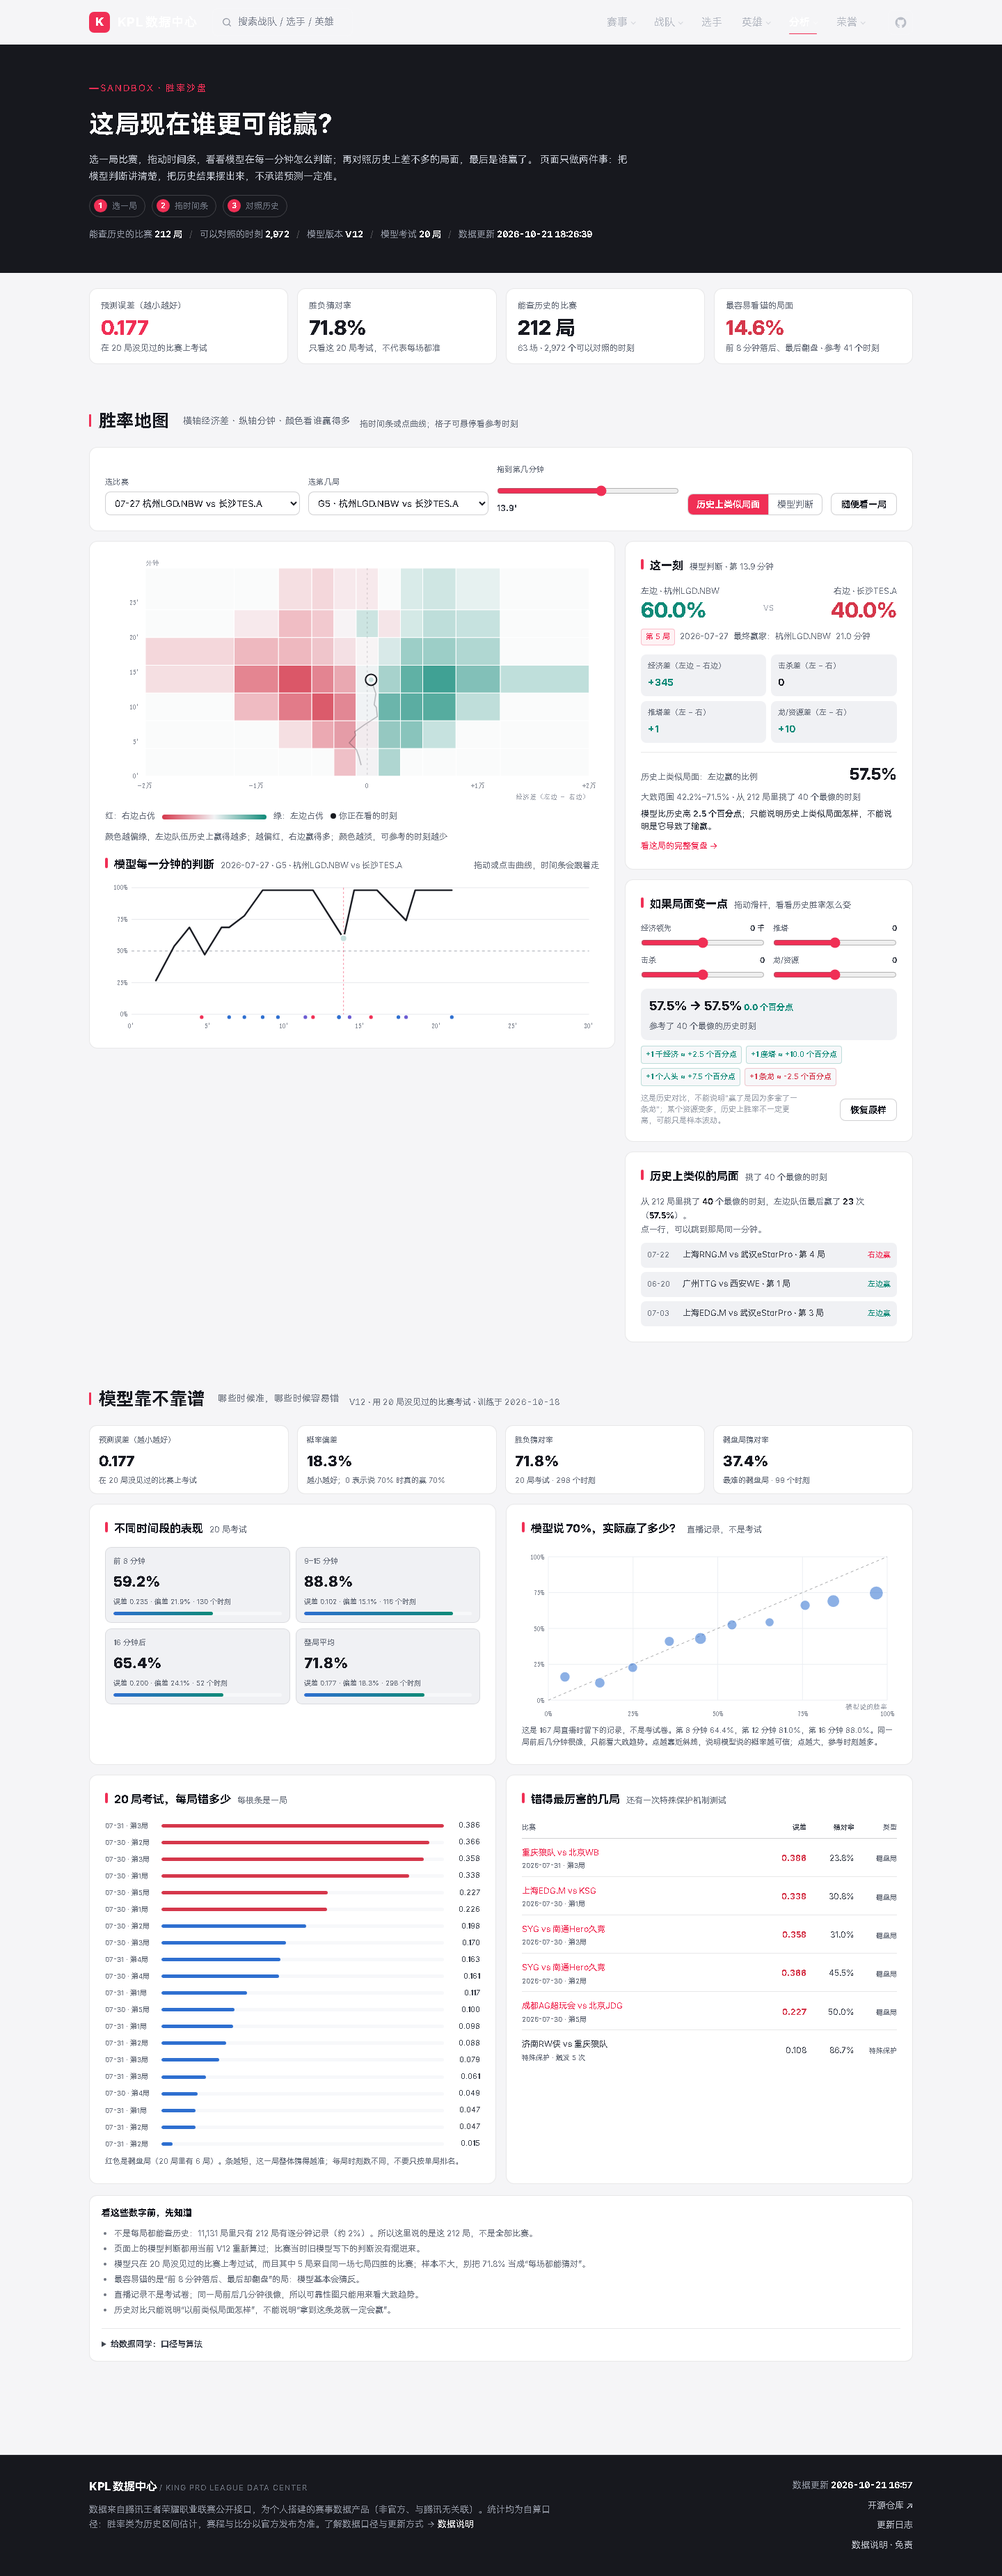
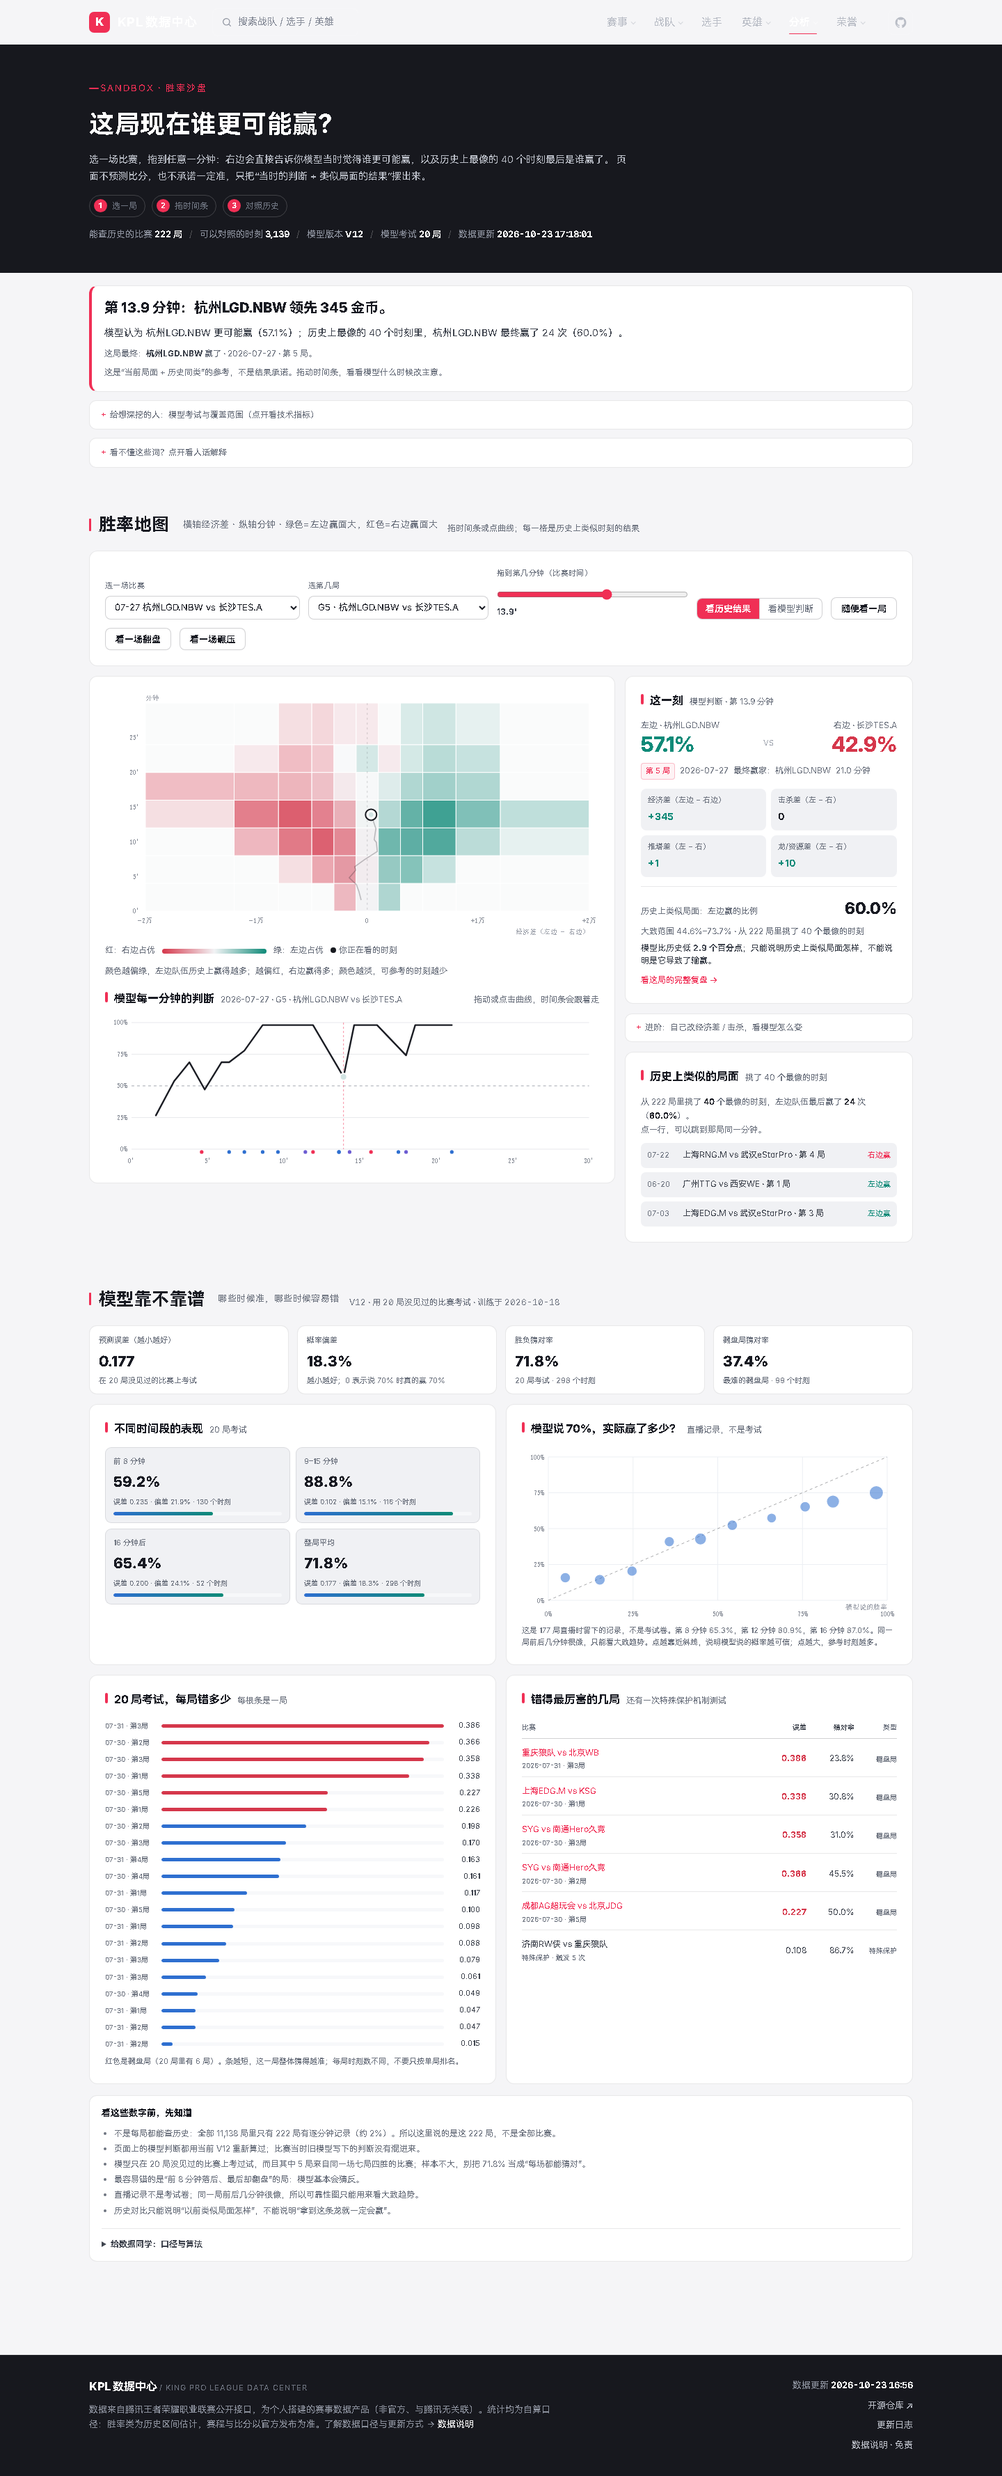
feat(sandbox): 解说模式：一句话结论、折叠技术指标、翻盘/碾压示例

diff --git a/sandbox.html b/sandbox.html
@@ -8,7 +8,7 @@
 <link rel="stylesheet" href="assets/style.css?v=78">
 <link rel="stylesheet" href="assets/pages.css?v=78">
 <link rel="stylesheet" href="assets/v55.css?v=78">
-<link rel="stylesheet" href="assets/sandbox.css?v=2">
+<link rel="stylesheet" href="assets/sandbox.css?v=4">
 <meta property="og:type" content="website">
 <meta property="og:site_name" content="KPL 数据中心">
 <meta property="og:title" content="这局谁更可能赢？· KPL 数据中心">
@@ -23,15 +23,15 @@
   <div class="wrap">
     <div class="ph-kicker mono">SANDBOX · 胜率沙盘</div>
     <h1>这局现在谁更可能赢？</h1>
-    <p>选一局比赛，拖动时间条，看看模型在每一分钟怎么判断；再对照历史上差不多的局面，最后是谁赢了。
-      页面只做两件事：把模型判断讲清楚，把历史结果摆出来，不承诺预测一定准。</p>
+    <p>选一场比赛，拖到任意一分钟：右边会直接告诉你模型当时觉得谁更可能赢，以及历史上最像的 40 个时刻最后是谁赢了。
+      页面不预测比分，也不承诺一定准，只把“当时的判断 + 类似局面的结果”摆出来。</p>
     <div class="sb-howto" aria-label="使用步骤">
       <span><b>1</b> 选一局</span>
       <span><b>2</b> 拖时间条</span>
       <span><b>3</b> 对照历史</span>
     </div>
     <div class="ph-meta mono">
-      <span>能查历史的比赛 <b>212 局</b></span><i>/</i>
+      <span>能查历史的比赛 <b id="sbMetaBattles">—</b></span><i>/</i>
       <span>可以对照的时刻 <b id="sbMetaFrames">—</b></span><i>/</i>
       <span>模型版本 <b>V12</b></span><i>/</i>
       <span>模型考试 <b>20 局</b></span><i>/</i>
@@ -41,44 +41,66 @@
 </header>
 
 <main class="wrap sb-main">
-  <div class="sb-kpis">
-    <div class="sb-kpi hl">
-      <div class="k">预测误差（越小越好）</div>
-      <div class="v" id="sbKpiBrier">—</div>
-      <div class="s" id="sbKpiBrierS">—</div>
-    </div>
-    <div class="sb-kpi">
-      <div class="k">胜负猜对率</div>
-      <div class="v" id="sbKpiAcc">—</div>
-      <div class="s" id="sbKpiAccS">—</div>
-    </div>
-    <div class="sb-kpi">
-      <div class="k">能查历史的比赛</div>
-      <div class="v" id="sbKpiCoverage">—</div>
-      <div class="s" id="sbKpiCoverageS">—</div>
-    </div>
-    <div class="sb-kpi warn">
-      <div class="k">最容易看错的局面</div>
-      <div class="v" id="sbKpiWeak">—</div>
-      <div class="s" id="sbKpiWeakS">—</div>
-    </div>
+  <div class="sb-plain" id="sbPlain">
+    <div class="big">选一场比赛，拖一下时间条，就能看到这一刻的解释。</div>
+    <div class="sub">右边会直接告诉你：模型当时觉得谁更可能赢，以及历史上最像的 40 个时刻最后是谁赢了。</div>
   </div>
+
+  <details class="sb-adv-details">
+    <summary>给想深挖的人：模型考试与覆盖范围（点开看技术指标）</summary>
+    <div class="sb-kpis">
+      <div class="sb-kpi hl">
+        <div class="k">预测误差（越小越好）</div>
+        <div class="v" id="sbKpiBrier">—</div>
+        <div class="s" id="sbKpiBrierS">—</div>
+      </div>
+      <div class="sb-kpi">
+        <div class="k">胜负猜对率</div>
+        <div class="v" id="sbKpiAcc">—</div>
+        <div class="s" id="sbKpiAccS">—</div>
+      </div>
+      <div class="sb-kpi">
+        <div class="k">能查历史的比赛</div>
+        <div class="v" id="sbKpiCoverage">—</div>
+        <div class="s" id="sbKpiCoverageS">—</div>
+      </div>
+      <div class="sb-kpi warn">
+        <div class="k">最容易看错的局面</div>
+        <div class="v" id="sbKpiWeak">—</div>
+        <div class="s" id="sbKpiWeakS">—</div>
+      </div>
+    </div>
+  </details>
+
+  <details class="sb-glossary">
+    <summary>看不懂这些词？点开看人话解释</summary>
+    <div class="sb-glossary-body">
+      <div><b>胜率</b>：模型估计这队最终赢的概率，不是比分预测。</div>
+      <div><b>经济差</b>：左边总金币减右边总金币，正数就是左边领先。</div>
+      <div><b>类似局面</b>：从 222 局历史里找经济差、击杀、推塔、资源最接近的时刻；样本少时会不稳。</div>
+      <div><b>Brier（误差）</b>：越小越好；0.25 相当于瞎猜，0.177 比瞎猜好，但不是神预测。</div>
+      <div><b>翻盘</b>：前 8 分钟落后、最后反而赢了。</div>
+      <div><b>参考区间</b>：历史结果的不确定范围，不是保证。</div>
+    </div>
+  </details>
 
   <section class="block sb-first">
     <div class="block-head">
-      <h2><i></i>胜率地图 <em>横轴经济差 · 纵轴分钟 · 颜色看谁赢得多</em></h2>
-      <span class="block-note mono">拖时间条或点曲线；格子可悬停看参考时刻</span>
+      <h2><i></i>胜率地图 <em>横轴经济差 · 纵轴分钟 · 绿色=左边赢面大，红色=右边赢面大</em></h2>
+      <span class="block-note mono">拖时间条或点曲线；每一格是历史上类似时刻的结果</span>
     </div>
 
     <div class="panel sb-toolbar">
-      <label class="sb-field"><span>选比赛</span><select id="sbMatch"></select></label>
+      <label class="sb-field"><span>选一场比赛</span><select id="sbMatch"></select></label>
       <label class="sb-field"><span>选第几局</span><select id="sbBattle"></select></label>
-      <label class="sb-field sb-time"><span>拖到第几分钟</span><input type="range" id="sbMinute" min="0" max="1" value="0"><b id="sbMinuteLabel">—</b></label>
+      <label class="sb-field sb-time"><span>拖到第几分钟（比赛时间）</span><input type="range" id="sbMinute" min="0" max="1" value="0"><b id="sbMinuteLabel">—</b></label>
       <div class="seg sb-mode" id="sbMode">
-        <button type="button" data-mode="hist" class="on">历史上类似局面</button>
-        <button type="button" data-mode="model">模型判断</button>
+        <button type="button" data-mode="hist" class="on">看历史结果</button>
+        <button type="button" data-mode="model">看模型判断</button>
       </div>
       <button class="btn ghost sm" id="sbRandom" type="button">随便看一局</button>
+      <button class="btn ghost sm" id="sbComeback" type="button">看一场翻盘</button>
+      <button class="btn ghost sm" id="sbBlowout" type="button">看一场碾压</button>
     </div>
 
     <div class="sb-layout">
@@ -97,7 +119,10 @@
 
       <aside class="sb-side">
         <div class="panel sb-state" id="sbState"></div>
-        <div class="panel sb-whatif" id="sbWhatIf"></div>
+        <details class="sb-adv-box">
+          <summary>进阶：自己改经济差 / 击杀，看模型怎么变</summary>
+          <div class="panel sb-whatif" id="sbWhatIf"></div>
+        </details>
         <div class="panel sb-analog" id="sbAnalog"></div>
       </aside>
     </div>
@@ -144,6 +169,6 @@
 <script src="assets/seasons.js?v=78"></script>
 <script src="assets/sandbox.js?v=2"></script>
 <script src="assets/common.js?v=79"></script>
-<script src="assets/sandbox_app.js?v=2"></script>
+<script src="assets/sandbox_app.js?v=4"></script>
 </body>
 </html>

diff --git a/assets/sandbox_app.js b/assets/sandbox_app.js
@@ -422,6 +422,47 @@
     overlay.addEventListener("pointercancel", function () { drag.on = false; });
   }
 
+  /* ---------- 一句话结论（普通观众入口） ---------- */
+  function renderPlain(b, f, s, a) {
+    var host = $("#sbPlain");
+    if (!host) return;
+    var p = f[1], pFrame = f, pFallback = false;
+    if (p == null) {
+      var fb = b.frames[nearestFrameIndex(b, f[0], true)];
+      if (fb && fb[1] != null) {
+        p = fb[1];
+        pFrame = fb;
+        pFallback = true;
+      }
+    }
+    var t1 = teamOr(b.t1, "左边队伍");
+    var t2 = teamOr(b.t2, "右边队伍");
+    var winTeam = b.win === 1 ? t1 : b.win === 2 ? t2 : "未知";
+    var gap = s.gd;
+    var gapTxt = (gap == null || isNaN(gap)) ? "经济差暂缺" :
+      (gap === 0 ? "双方经济基本持平" :
+        (gap > 0 ? t1 + " 领先 " + Math.abs(gap) + " 金币" :
+          t2 + " 领先 " + Math.abs(gap) + " 金币"));
+    var fav = p == null ? null : (p >= 0.5 ? t1 : t2);
+    var favP = p == null ? null : Math.max(p, 1 - p);
+    var histFav = a.rate == null ? null : (a.rate >= 0.5 ? t1 : t2);
+    var histWins = a.rate == null ? null : (a.rate >= 0.5 ? a.wins : a.n - a.wins);
+    var histP = a.rate == null ? null : Math.max(a.rate, 1 - a.rate);
+    var line2 = p == null ? "这一分钟模型没有有效判断。" :
+      "模型认为 " + fav + " 更可能赢（" + pct(favP) + "）";
+    if (a.rate != null) {
+      line2 += "；历史上最像的 " + a.n + " 个时刻里，" + histFav +
+        " 最终赢了 " + histWins + " 次（" + pct(histP) + "）";
+    }
+    line2 += "。";
+    host.innerHTML =
+      '<div class="big">第 ' + f[0].toFixed(1) + " 分钟：" + esc(gapTxt) + "。</div>" +
+      '<div class="sub">' + esc(line2) + "</div>" +
+      (pFallback ? '<div class="hint">这一分钟没有模型数字，显示的是最近一次判断。</div>' : "") +
+      '<div class="hint">这局最终：<b>' + esc(winTeam) + "</b> 赢了 · " + esc(b.date || "") + " · 第 " + b.seq + " 局。</div>" +
+      '<div class="hint">这是“当前局面 + 历史同类”的参考，不是结果承诺。拖动时间条，看看模型什么时候改主意。</div>';
+  }
+
   /* ---------- 状态卡 ---------- */
   function renderState(b, f, s, a) {
     var host = $("#sbState");
@@ -474,7 +515,7 @@
         '<div class="sb-hist-top"><span class="k">历史上类似局面：左边赢的比例</span>' +
           '<span class="v">' + pct(a.rate) + "</span></div>" +
         '<div class="sb-hist-sub">大致范围 ' + pct(a.lo) + "–" + pct(a.hi) +
-          " · 从 212 局里挑了 " + a.n + " 个最像的时刻</div>" +
+          " · 从 " + D.coverage.replayBattles + " 局里挑了 " + a.n + " 个最像的时刻</div>" +
         '<div class="sb-hist-gap' + lowCls + '">' +
           (gap == null ? "参考时刻不足，暂不比较。" :
             "模型比历史" + (gap >= 0 ? "高" : "低") + " <b>" +
@@ -629,6 +670,8 @@
   function renderMeta() {
     var m = D.model;
     $("#sbMetaFrames").textContent = num(D.coverage.replayFrames);
+    var mb = $("#sbMetaBattles");
+    if (mb) mb.textContent = D.coverage.replayBattles + " 局";
     $("#sbMetaUpdated").textContent = D.updatedAt || "—";
     $("#sbKpiBrier").textContent = m.brier == null ? "—" : m.brier.toFixed(3);
     $("#sbKpiBrierS").textContent = "在 " + m.testN + " 局没见过的比赛上考试";
@@ -793,6 +836,41 @@
     host.innerHTML = html;
   }
 
+  /* ---------- 示例入口：找一场翻盘 / 碾压 ---------- */
+  function pickComeback() {
+    var best = null;
+    D.battles.forEach(function (b, bi) {
+      if (b.win !== 1 && b.win !== 2) return;
+      var minLead = Infinity, minute = null;
+      b.frames.forEach(function (f) {
+        if (f[1] == null || f[2] == null) return;
+        var lead = b.win === 1 ? f[2] : -f[2];
+        if (lead < minLead) { minLead = lead; minute = f[0]; }
+      });
+      if (minute != null && minLead < -4000 && (!best || minLead < best.minLead)) {
+        best = { bi: bi, minute: minute, minLead: minLead };
+      }
+    });
+    return best;
+  }
+
+  function pickBlowout() {
+    var best = null;
+    D.battles.forEach(function (b, bi) {
+      if (b.win !== 1 && b.win !== 2) return;
+      var maxLead = -Infinity, minute = null;
+      b.frames.forEach(function (f) {
+        if (f[1] == null || f[2] == null) return;
+        var lead = b.win === 1 ? f[2] : -f[2];
+        if (lead > maxLead) { maxLead = lead; minute = f[0]; }
+      });
+      if (minute != null && maxLead > 8000 && (!best || maxLead > best.maxLead)) {
+        best = { bi: bi, minute: minute, maxLead: maxLead };
+      }
+    });
+    return best;
+  }
+
   /* ---------- 事件绑定 ---------- */
   function bindControls() {
     var matchSel = $("#sbMatch");
@@ -839,6 +917,20 @@
         renderAll();
       });
     }
+    var cb = $("#sbComeback");
+    if (cb) {
+      cb.addEventListener("click", function () {
+        var x = pickComeback();
+        if (x) loadBattle(x.bi, x.minute);
+      });
+    }
+    var bl = $("#sbBlowout");
+    if (bl) {
+      bl.addEventListener("click", function () {
+        var x = pickBlowout();
+        if (x) loadBattle(x.bi, x.minute);
+      });
+    }
   }
 
   function renderAll() {
@@ -856,6 +948,7 @@
     renderLegend();
     renderCurve();
     renderState(b, f, s, a);
+    renderPlain(b, f, s, a);
     renderWhatIf(b, f, s, a);
     renderAnalog(b, f, s, a);
   }

diff --git a/assets/sandbox.css b/assets/sandbox.css
@@ -140,6 +140,30 @@
 .sb-tech ul{margin:8px 0 0;padding-left:18px;color:var(--muted);font-size:11.5px;line-height:1.8}
 .sb-tech li b{color:var(--ink2)}
 .sb-sr{position:absolute;width:1px;height:1px;overflow:hidden;clip:rect(0 0 0 0);white-space:nowrap}
+.sb-plain{margin-top:18px;background:var(--card);border:1px solid var(--line);border-left:4px solid var(--gold);
+  border-radius:12px;padding:16px 18px}
+.sb-plain .big{font-size:20px;font-weight:800;line-height:1.55;color:var(--ink)}
+.sb-plain .sub{margin-top:8px;font-size:13.5px;line-height:1.85;color:var(--ink2)}
+.sb-plain .hint{margin-top:8px;font-size:11.5px;line-height:1.7;color:var(--muted)}
+.sb-plain .hint b{color:var(--ink2)}
+.sb-adv-details,.sb-glossary{margin-top:12px;border:1px solid var(--line);border-radius:10px;background:var(--card);padding:0 14px}
+.sb-adv-details summary,.sb-glossary summary{cursor:pointer;padding:10px 0;font-size:12px;color:var(--muted);list-style:none}
+.sb-adv-details summary::-webkit-details-marker,.sb-glossary summary::-webkit-details-marker{display:none}
+.sb-adv-details summary:before,.sb-glossary summary:before{content:"＋ ";color:var(--gold);font-family:var(--mono)}
+.sb-adv-details[open] summary:before,.sb-glossary[open] summary:before{content:"－ "}
+.sb-adv-details[open] summary,.sb-glossary[open] summary{border-bottom:1px solid var(--line);margin-bottom:12px}
+.sb-adv-details .sb-kpis{margin-top:0;margin-bottom:12px}
+.sb-glossary-body{display:grid;grid-template-columns:repeat(2,minmax(0,1fr));gap:8px 18px;
+  padding:0 0 13px;font-size:12px;line-height:1.75;color:var(--muted)}
+.sb-glossary-body b{color:var(--ink2)}
+.sb-adv-box{margin:0}
+.sb-adv-box summary{cursor:pointer;padding:10px 13px;border:1px solid var(--line);border-radius:10px;
+  background:var(--card);font-size:11.5px;color:var(--muted);list-style:none}
+.sb-adv-box summary::-webkit-details-marker{display:none}
+.sb-adv-box summary:before{content:"＋ ";color:var(--gold);font-family:var(--mono)}
+.sb-adv-box[open] summary:before{content:"－ "}
+.sb-adv-box[open] summary{border-radius:10px 10px 0 0;border-bottom-color:transparent}
+.sb-adv-box .sb-whatif{border:0;border-radius:0 0 10px 10px;background:var(--card);padding:0 13px 13px}
 @media(max-width:1080px){
   .sb-layout{grid-template-columns:1fr}
   .sb-side{display:grid;grid-template-columns:repeat(2,minmax(0,1fr))}
@@ -163,6 +187,8 @@
   .sb-health-grid{grid-template-columns:1fr}
   .sb-whatif-grid{grid-template-columns:1fr}
   .sb-kpi .v{font-size:25px}
+  .sb-plain .big{font-size:17px}
+  .sb-glossary-body{grid-template-columns:1fr}
   .sb-surface{min-height:280px}
   .sb-worst-row{grid-template-columns:minmax(0,1fr) 52px 52px 44px}
 }

diff --git a/_check_sandbox.js b/_check_sandbox.js
@@ -116,7 +116,7 @@ async function main() {
   check("同状态历史样例已渲染", base && base.analogs >= 3, base && base.analogs);
   check("V12 曲线已渲染", base && base.curve >= 1, base && base.curve);
   check("KPI Brier = 0.177", base && base.brier === "0.177", base && base.brier);
-  check("KPI 覆盖 = 212 局", base && base.coverage === "212 局", base && base.coverage);
+  check("KPI 覆盖 = 222 局", base && base.coverage === "222 局", base && base.coverage);
   check("1440px 无横向溢出", base && base.overflow <= 1, base && base.overflow + "px");
 
   // 模式切换
